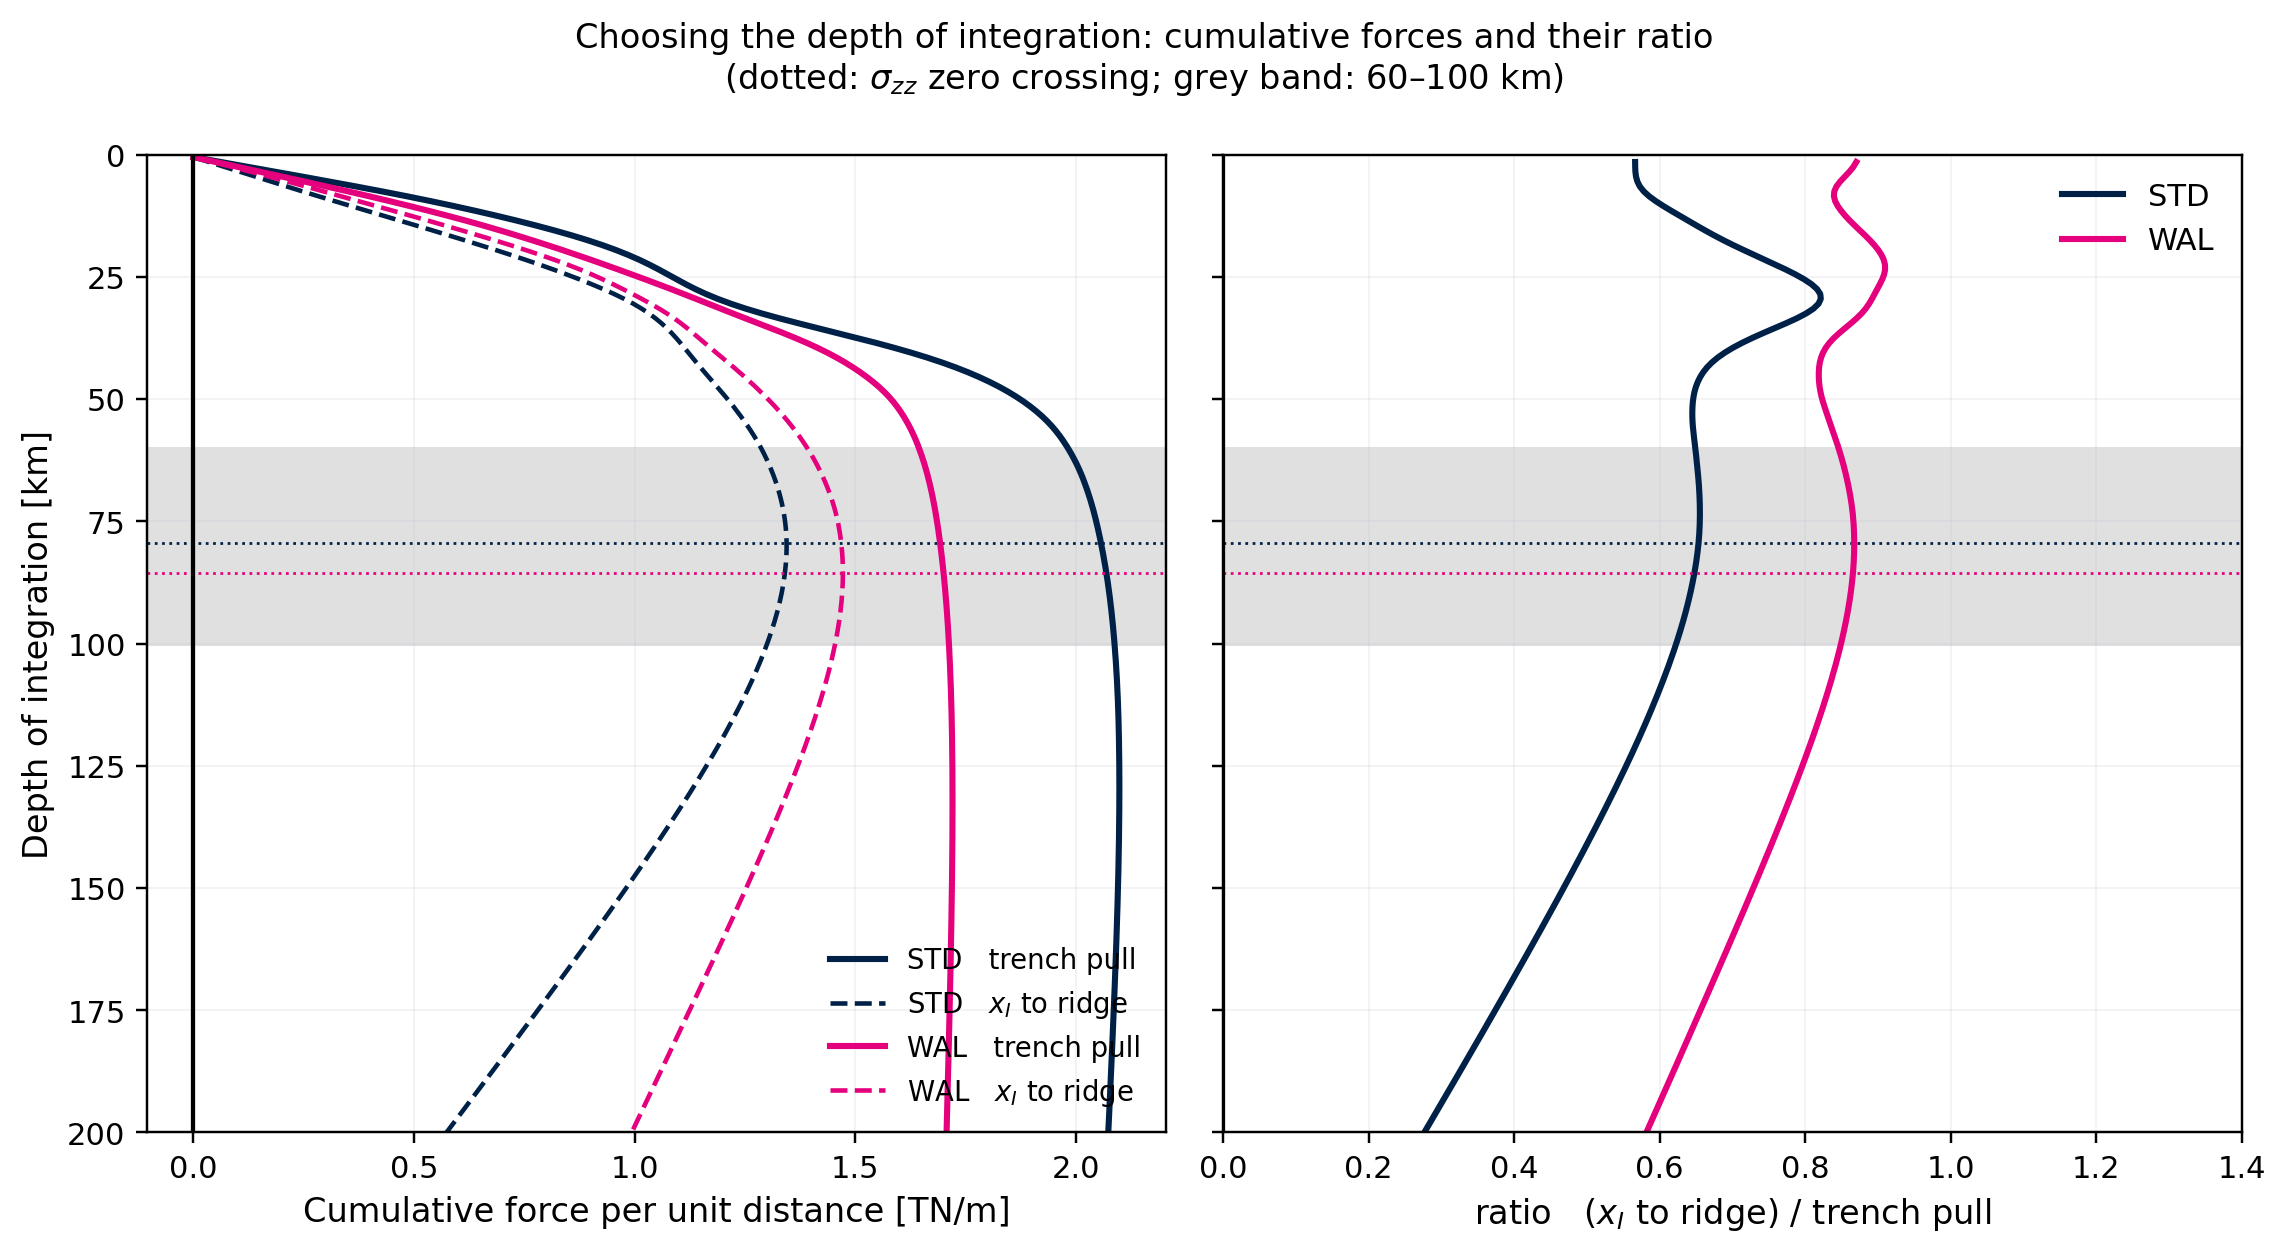
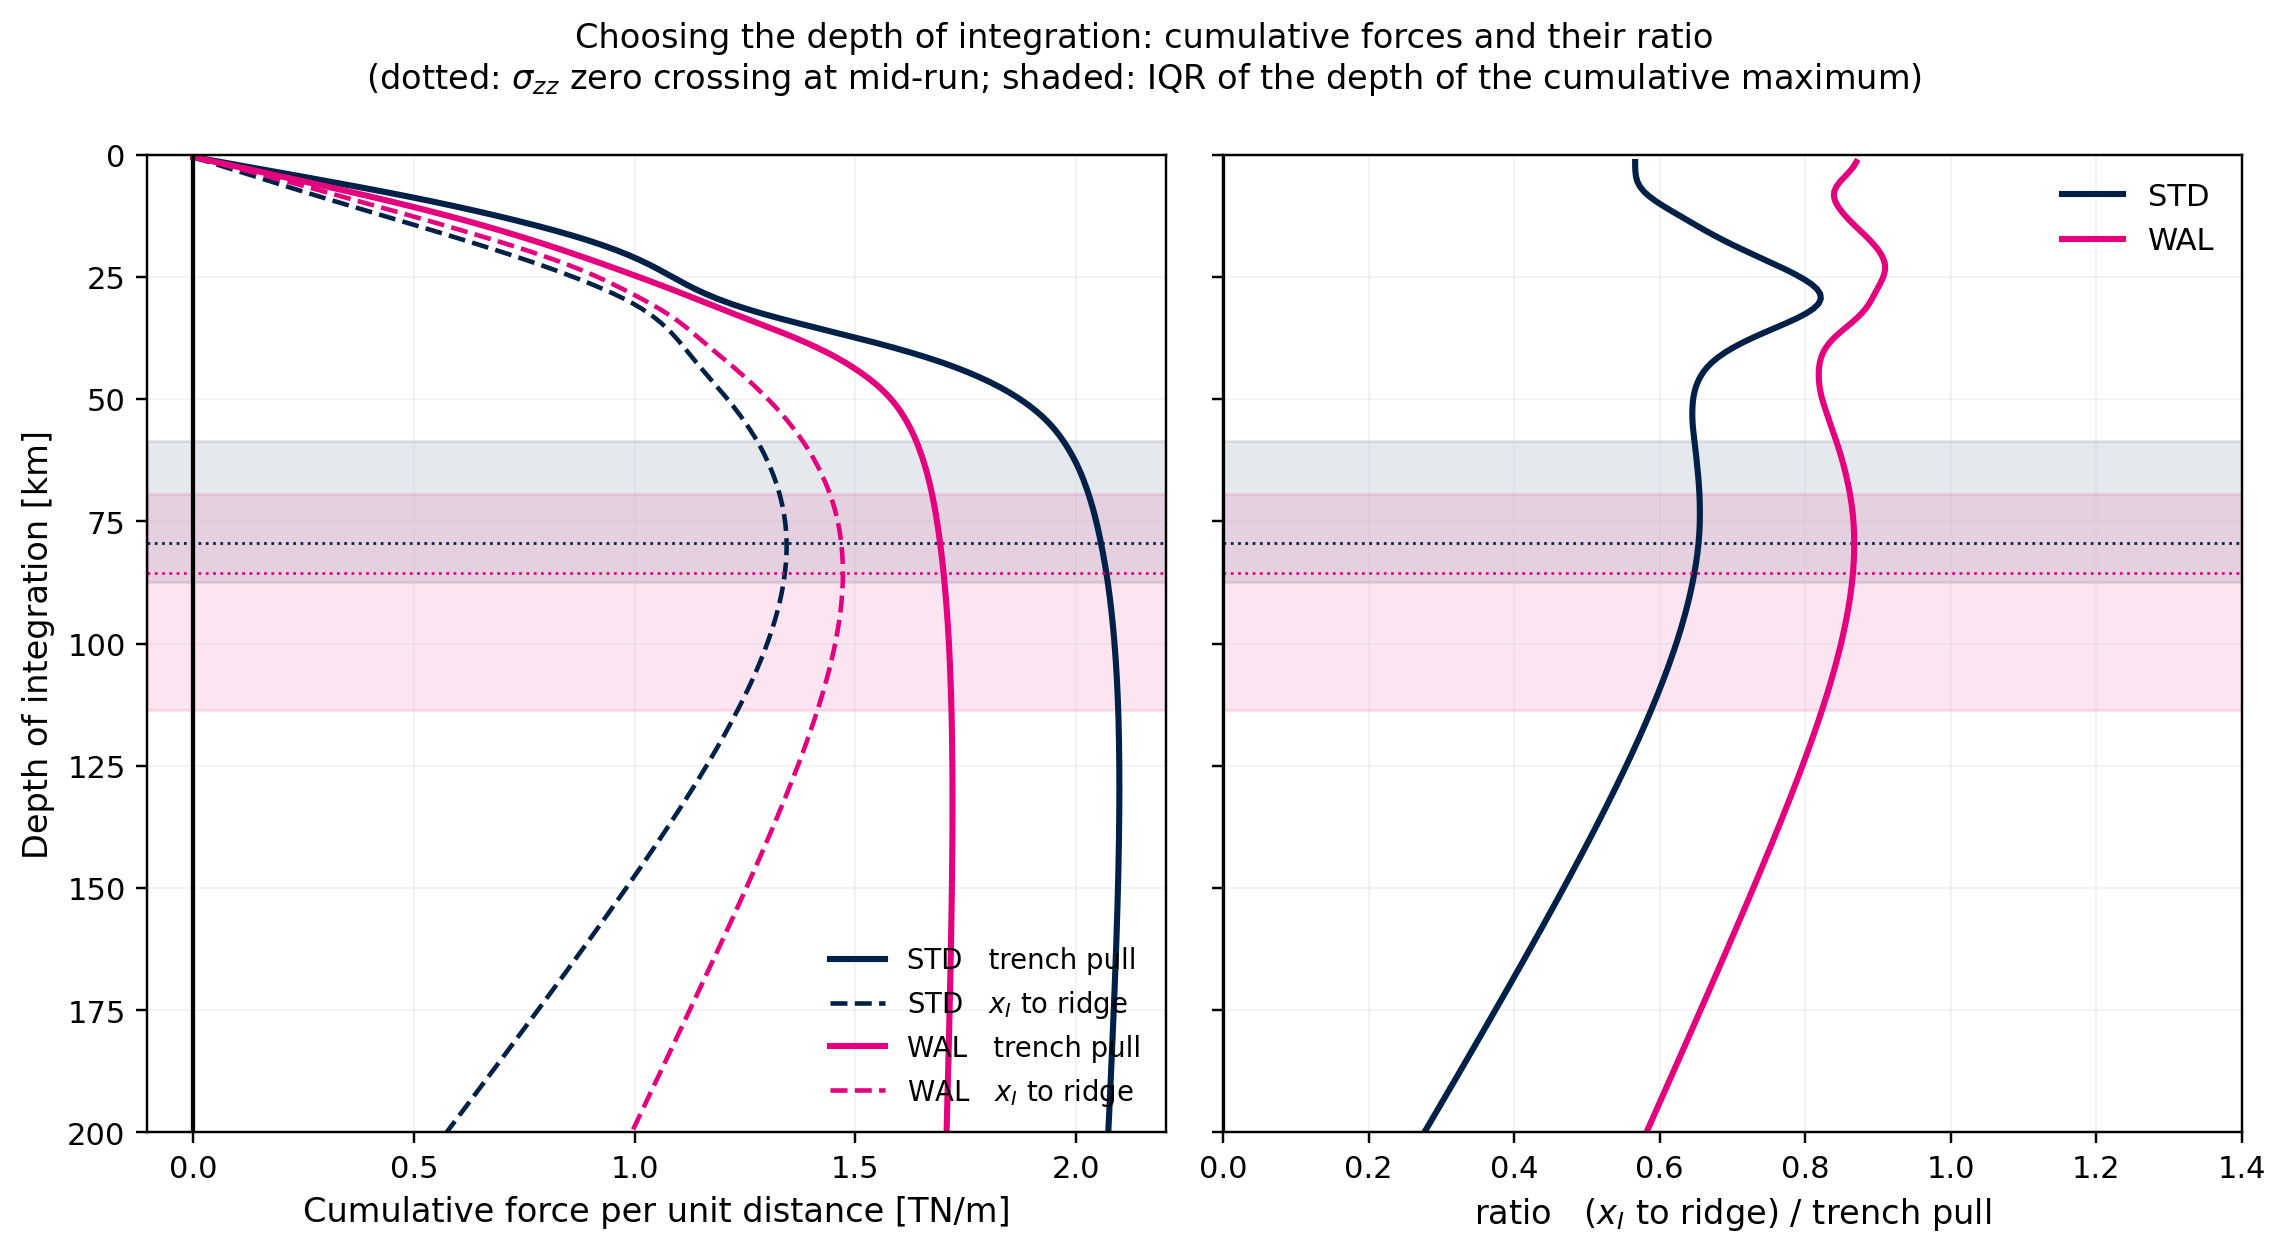
fig_force_vs_depth: replace the eyeballed 60-100 km band with the computed IQR of the cumulative maximum
The previous grey band was chosen by eye to bracket 75 km and the
crossings -- no derivation (Dan challenged it, 2026-09-16). It is
replaced by a per-model shaded band showing the interquartile range,
through the run, of the depth at which the cumulative x_I-to-ridge curve
is a maximum (equivalently where its integrand changes sign): STD IQR
58-88 km, WAL 70-114 km.

diff --git a/scripts/fig_force_vs_depth.py b/scripts/fig_force_vs_depth.py
@@ -28,7 +28,8 @@ Left: the trench pull (solid) converges by about 60 km, while the
 first-isostatic-column-to-ridge part (dashed) peaks near the vertical
 normal stress zero crossing (dotted) and then declines as the
 asthenospheric pressure gradient takes over. Right: their ratio is flat
-across the 60–100 km window (grey band), so the partition between trench
+across the depth range in which the cumulative maximum falls (shaded,
+interquartile range through the run), so the partition between trench
 pull and the plate-wide term does not depend materially on where the
 integration is stopped.
 """
@@ -46,7 +47,10 @@ from fig_lab_kinematics import crossing_depth
 ROOT = os.path.dirname(os.path.dirname(os.path.abspath(__file__)))
 C = {'STD': '#002147', 'WAL': '#E5007D'}
 C_RULE = '#BFC3D1'
-WINDOW_KM = (60.0, 100.0)
+# The shaded band is the RUN RANGE (IQR) of the depth at which the
+# cumulative x_I-to-ridge curve is a MAXIMUM — i.e. of the depth where the
+# integrand changes sign. It is computed, not chosen: an earlier fixed
+# 60-100 km band was an eyeballed guess and is retired (Dan, 2026-09-16).
 
 def main():
     d = cpc.load()
@@ -67,8 +71,18 @@ def main():
         axes[0].plot(TP, zkm, color=col, lw=2.0, label=f'{key}   trench pull')
         axes[0].plot(RP, zkm, color=col, lw=1.5, ls='--', label=f'{key}   $x_I$ to ridge')
         axes[1].plot(ratio, zkm, color=col, lw=2.0, label=key)
+        # depth of the cumulative maximum, per snapshot -> IQR band
+        sel = (zkm > 30) & (zkm < 200)
+        zmax_all = []
+        for pr, pt in zip(c['p_R'], c['p_T']):
+            rr = cum(gaussian_filter1d(pr, 2))
+            zmax_all.append(zkm[sel][int(np.argmax(rr[sel]))])
+        q1, q3 = np.percentile(zmax_all, [25, 75])
         for ax in axes:
+            ax.axhspan(q1, q3, color=col, alpha=0.10, zorder=0)
             ax.axhline(z_cross, color=col, lw=0.9, ls=':')
+        print(f'   depth of cumulative maximum: median {np.median(zmax_all):.0f} km, '
+              f'IQR {q1:.0f}-{q3:.0f}, full {min(zmax_all):.0f}-{max(zmax_all):.0f}')
         at = lambda a, zz: float(np.interp(zz, zkm, a))
         print(f'{key}: trench pull {at(TP, 75):.2f} TN/m (60 km {at(TP, 60):.2f}, '
               f'100 km {at(TP, 100):.2f}); x_I-to-ridge {at(RP, 75):.2f} '
@@ -76,7 +90,6 @@ def main():
               f'ratio {at(ratio, 60):.2f}/{at(ratio, 75):.2f}/{at(ratio, z_cross):.2f} '
               f'(60 / 75 / crossing)')
     for ax in axes:
-        ax.axhspan(*WINDOW_KM, color='0.88', zorder=0)
         ax.axvline(0, color='k', lw=1.4)
         ax.grid(alpha=0.2, color=C_RULE, lw=0.6)
     axes[0].set_xlabel('Cumulative force per unit distance [TN/m]', fontsize=11)
@@ -87,7 +100,7 @@ def main():
     axes[0].legend(frameon=False, fontsize=9, loc='lower right')
     axes[1].legend(frameon=False, fontsize=10)
     fig.suptitle('Choosing the depth of integration: cumulative forces and their ratio\n'
-                 '(dotted: $\\sigma_{zz}$ zero crossing; grey band: 60–100 km)', fontsize=11)
+                 '(dotted: $\\sigma_{zz}$ zero crossing at mid-run; shaded: IQR of the depth of the cumulative maximum)', fontsize=11)
     fig.tight_layout()
     out = os.path.join(ROOT, 'figures', 'fig_force_vs_depth.png')
     fig.savefig(out, bbox_inches='tight', dpi=220)
